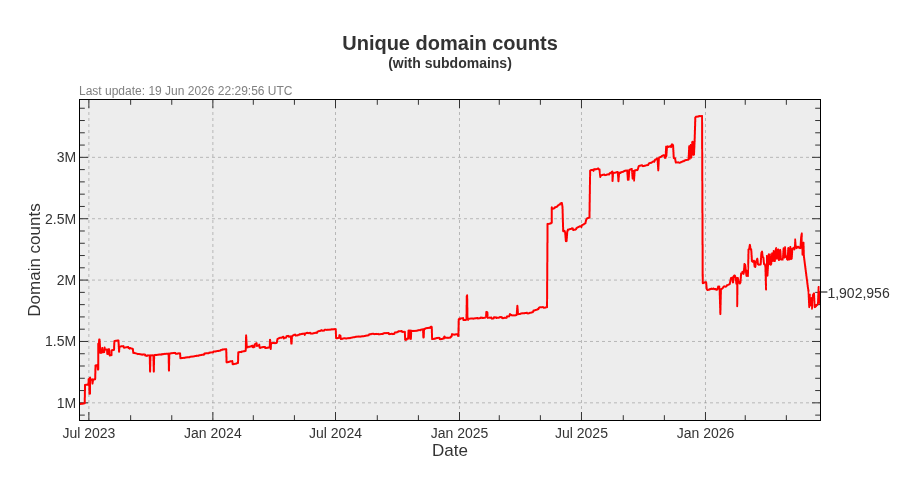
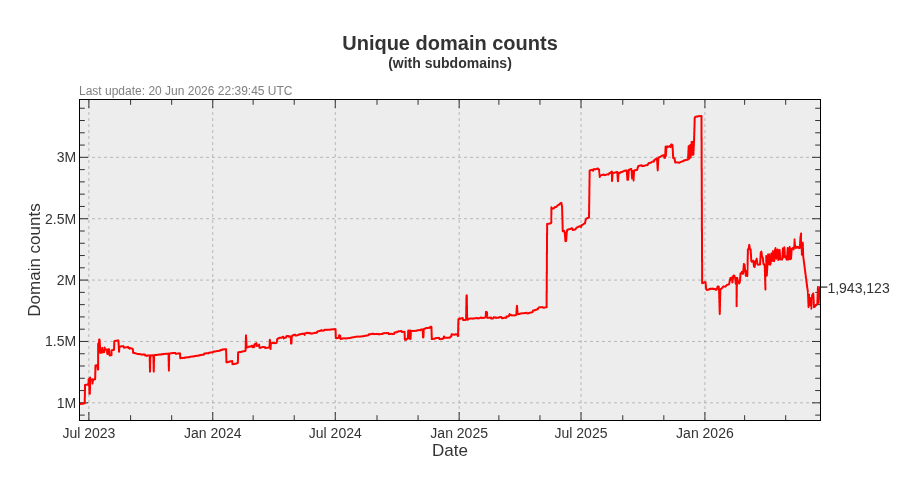
Update pages

diff --git a/README.md b/README.md
@@ -3,22 +3,22 @@ A blocklist file for blocking ads, trackers and malware domains.
 
[1 lines of base64/hex data omitted]
 
-- Unique domains: 1,902,956
-- Without subdomains: 1,244,959
-- Last update: 19 Jun 2026 22:29:56 UTC
-- Version: 2026.06.19.01
+- Unique domains: 1,943,123
+- Without subdomains: 1,281,596
+- Last update: 20 Jun 2026 22:39:45 UTC
+- Version: 2026.06.20.01
 
 
 ## Downloads:
 
 | Format             | Domain count      | Download Link |
 |------------------ | -----------------|-------------|
-| *Adblock Plus*     | 1,244,959 | [bad-hosts-abp](https://dl.cenk.app/bad-hosts/bad-hosts-abp) |
-| *Wildcard domains* | 1,244,959 | [bad-hosts-wildcard](https://dl.cenk.app/bad-hosts/bad-hosts-wildcard) |
-| *dnsmasq*          | 1,244,959 | [bad-hosts-dnsmasq](https://dl.cenk.app/bad-hosts/bad-hosts-dnsmasq) |
-| *hosts*            | 1,902,956 | [hosts](https://dl.cenk.app/bad-hosts/hosts) |
-| *hosts (ipv6)*     | 1,902,956 | [hosts-ipv6](https://dl.cenk.app/bad-hosts/hosts-ipv6) |
-| *Plain domains*    | 1,902,956 | [bad-hosts-domains](https://dl.cenk.app/bad-hosts/bad-hosts-domains) |
+| *Adblock Plus*     | 1,281,596 | [bad-hosts-abp](https://dl.cenk.app/bad-hosts/bad-hosts-abp) |
+| *Wildcard domains* | 1,281,596 | [bad-hosts-wildcard](https://dl.cenk.app/bad-hosts/bad-hosts-wildcard) |
+| *dnsmasq*          | 1,281,596 | [bad-hosts-dnsmasq](https://dl.cenk.app/bad-hosts/bad-hosts-dnsmasq) |
+| *hosts*            | 1,943,123 | [hosts](https://dl.cenk.app/bad-hosts/hosts) |
+| *hosts (ipv6)*     | 1,943,123 | [hosts-ipv6](https://dl.cenk.app/bad-hosts/hosts-ipv6) |
+| *Plain domains*    | 1,943,123 | [bad-hosts-domains](https://dl.cenk.app/bad-hosts/bad-hosts-domains) |
 
 ## Domain count history
 ### With subdomains